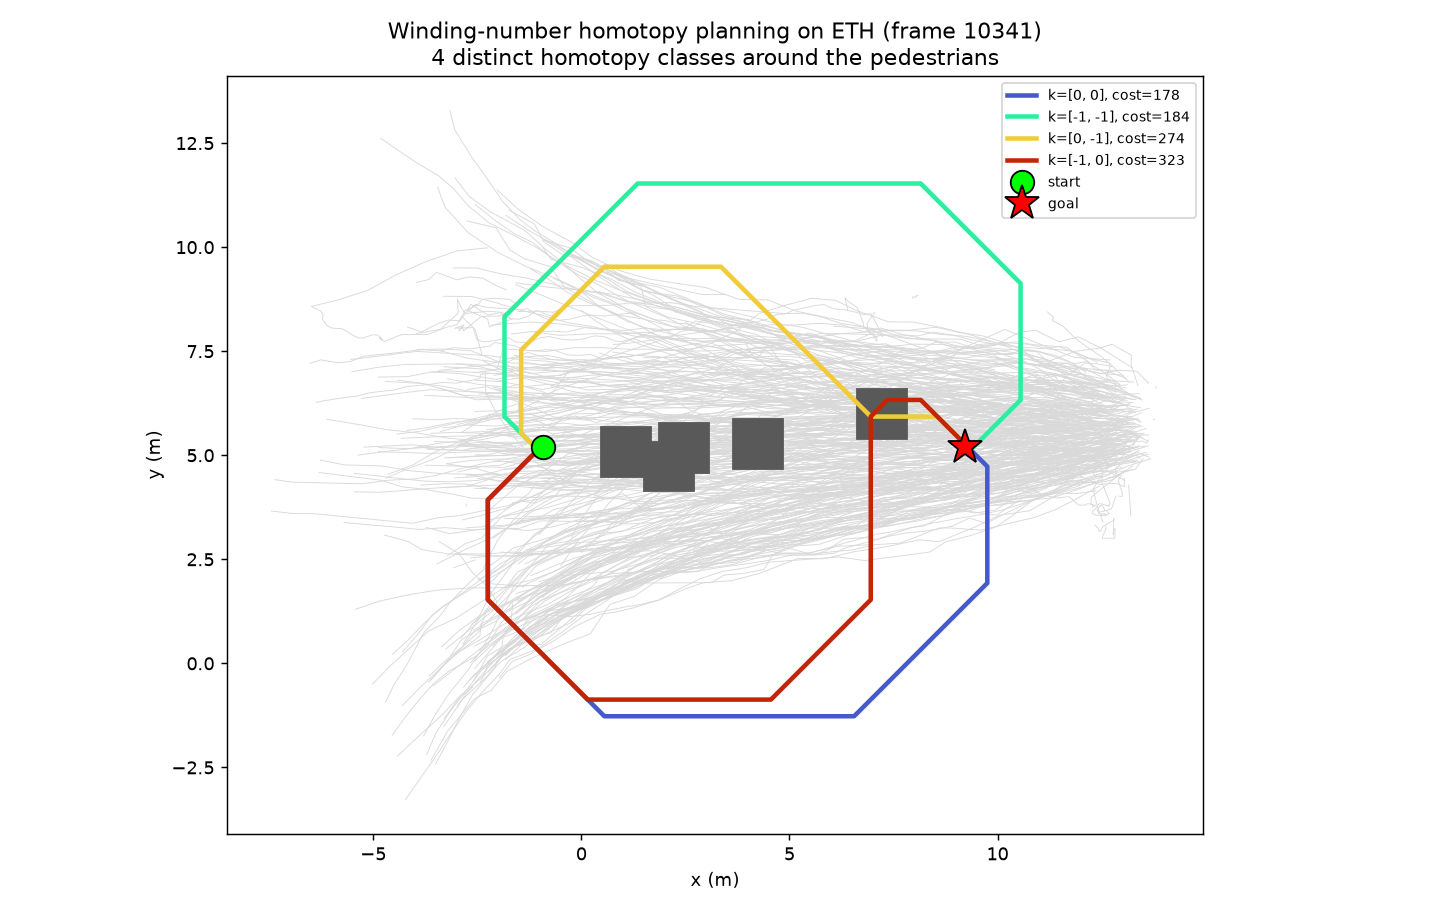
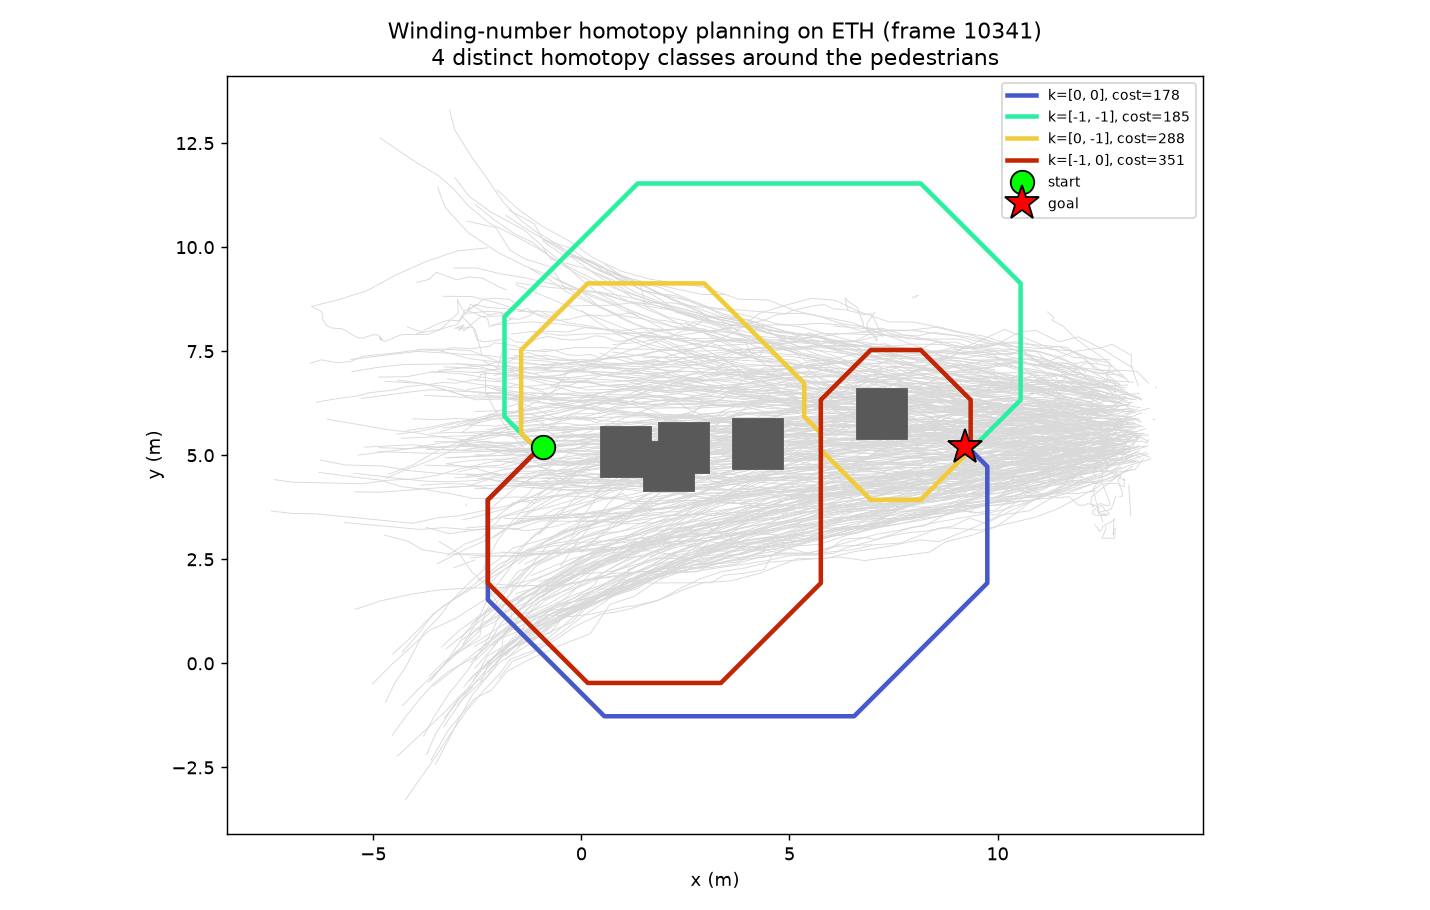
homotopy_eth: treat pedestrians as hard obstacles
Previously pedestrians were soft (dynamic-cost) obstacles, so lower-priority
homotopy classes could clip a non-critic pedestrian. Carve pedestrian cells out
of the walkable graph (obs_map) so paths route strictly around them; add a
comment on reverting to the tracker's soft-obstacle behaviour.

diff --git a/examples/homotopy_eth.py b/examples/homotopy_eth.py
@@ -90,6 +90,11 @@ def main():
 
     obs, obs_cent = combine_obstacles(-1, [], ped_obs, poly_ground)
     obs_map, dyn_map = construct_obstacle_maps(obs, poly_ground, goal_ground)
+    # Treat pedestrians as HARD obstacles for this demo: carve their cells out
+    # of the walkable graph so paths genuinely go *around* them (not merely pay
+    # the soft dynamic-obstacle cost). Remove this line to get the tracker's
+    # soft-obstacle behaviour instead.
+    obs_map = np.where(dyn_map > 0, 1, obs_map)
     feat = construct_feature_maps(obs_map, dyn_map)
     ig2yx, yx2ig, src, dst, nbr = build_state_graph(obs_map)
     ew = edge_weights(ig2yx, src, dst, nbr, feat, WEI)
